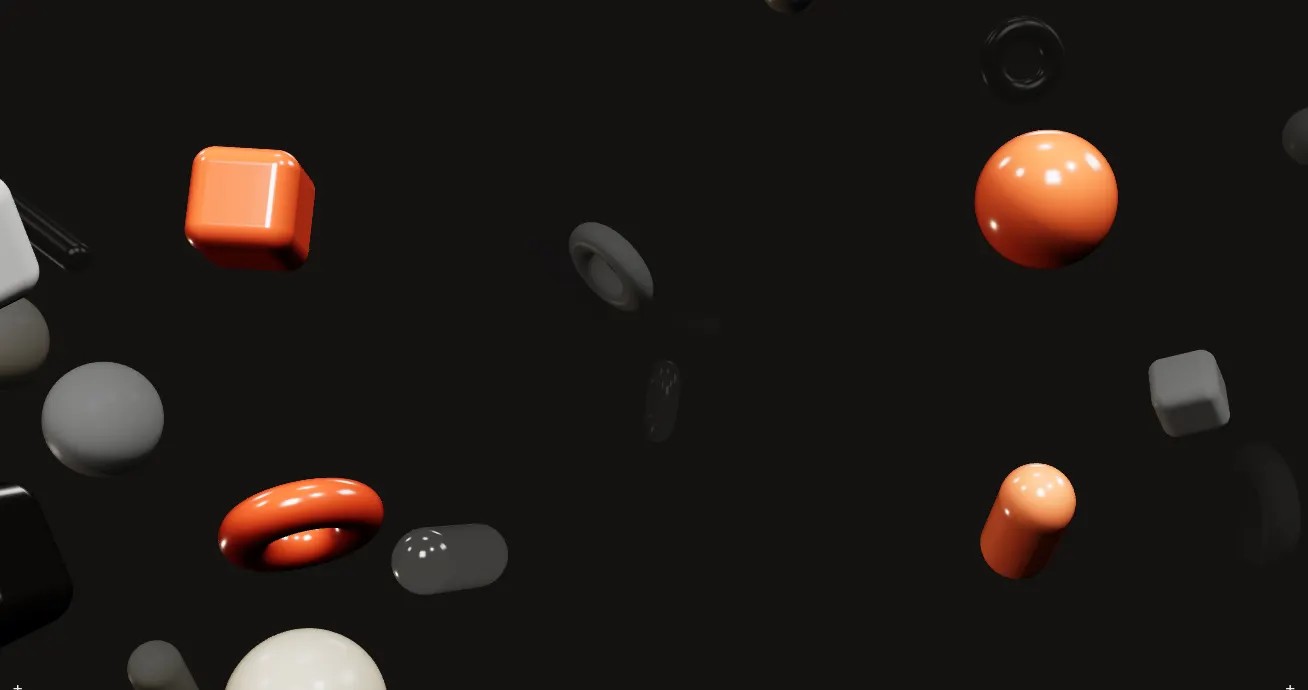
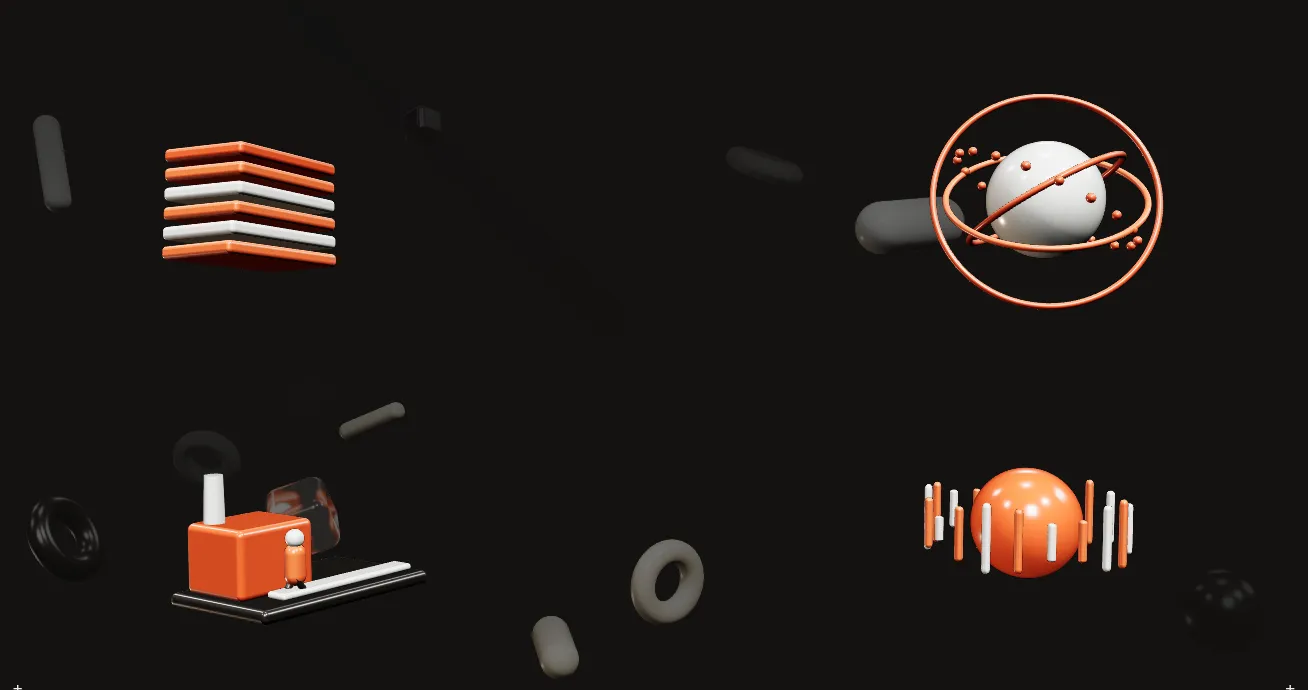
Hero: four tiny worlds, one per project
ERP is a building of stacked pages that fan out, Privacy a globe with
language rings, MES a small factory with a walking robot, Jarvis a glowing
orb with a voice waveform. Hover grows and animates a world and shows the
project; click opens the case study. Decorative shapes sit behind the
worlds; the no-3D still shows the new scene.

diff --git a/src/lusion/Experience.jsx b/src/lusion/Experience.jsx
@@ -124,8 +124,8 @@ export default class Experience extends Component {
     const group = new THREE.Group(); scene.add(group); const items = [];
     for (let i = 0; i < 40; i++) {
       const mesh = new THREE.Mesh(geos[i % geos.length], i % 6 === 0 ? glass() : mat(palette[Math.floor(Math.random() * palette.length)]));
-      const r = rnd(1, 6), th = rnd(0, 6.283), base = new THREE.Vector3(r * Math.cos(th), r * Math.sin(th) * .7 + rnd(-1, 1) * 1.4, rnd(-6, 4));
-      mesh.rotation.set(rnd(0, 6.283), rnd(0, 6.283), rnd(0, 6.283)); mesh.scale.setScalar(rnd(.7, 1.5)); group.add(mesh);
+      const r = rnd(1, 6), th = rnd(0, 6.283), base = new THREE.Vector3(r * Math.cos(th), r * Math.sin(th) * .7 + rnd(-1, 1) * 1.4, rnd(-9, -1.5));
+      mesh.rotation.set(rnd(0, 6.283), rnd(0, 6.283), rnd(0, 6.283)); mesh.scale.setScalar(rnd(.55, 1.15)); group.add(mesh);
       items.push({ mesh, base, spin: new THREE.Vector3(rnd(-.4, .4), rnd(-.4, .4), rnd(-.2, .2)), ph: rnd(0, 6.283) });
     }
     const tctx = trail.getContext('2d');
@@ -133,12 +133,43 @@ export default class Experience extends Component {
     // The four flagship projects as larger shapes. They are placed relative to the camera, so they hold
     // their places while the other shapes fly past during the push-in. Hover shows the project, click opens it.
     const F = (this.props.flagships || []).slice(0, 4);
-    const pGeo = [new RoundedBoxGeometry(1.3, 1.3, 1.3, 6, .28), new THREE.SphereGeometry(.85, 48, 48), new THREE.TorusGeometry(.7, .3, 32, 80), new THREE.CapsuleGeometry(.45, 1.15, 10, 28)];
-    const pCol = [0xe0562a, 0xf26b3a, 0xc9461f, 0xff8452];
+    // Four tiny worlds, one per project, built from primitives.
+    const O = 0xe0562a, O2 = 0xf26b3a, CREAM = 0xf0efe9, INK = 0x2a2724;
+    const pm = (c, o = {}) => new THREE.MeshPhysicalMaterial(Object.assign({ color: c, roughness: .2, clearcoat: 1, clearcoatRoughness: .08, envMapIntensity: 1.1, emissive: O, emissiveIntensity: 0, fog: false }, o));
+    const worlds = [
+      () => { // ERP: a building of stacked pages that fan out
+        const g = new THREE.Group(), pages = [];
+        for (let k = 0; k < 6; k++) { const m = new THREE.Mesh(new RoundedBoxGeometry(1.5, .14, 1.05, 4, .05), pm(k === 5 ? O : k % 2 ? CREAM : O2)); m.position.y = -.5 + k * .2; g.add(m); pages.push(m); }
+        return { g, mats: pages.map(m => m.material), update: (t, h) => pages.forEach((m, k) => { m.position.y = -.5 + k * (.2 + h * .16); m.rotation.y = Math.sin(t * .8 + k * .5) * (.08 + h * .25); }) };
+      },
+      () => { // Privacy: a globe with language rings
+        const g = new THREE.Group(), globe = new THREE.Mesh(new THREE.SphereGeometry(.62, 48, 48), pm(CREAM)); g.add(globe);
+        const rings = [0, 1, 2].map(k => { const r = new THREE.Mesh(new THREE.TorusGeometry(.9 + k * .14, .035, 12, 96), pm(k === 1 ? O2 : O)); r.rotation.set(1.1 + k * .5, k * .7, 0); g.add(r); return r; });
+        const dots = new THREE.Group(); for (let k = 0; k < 18; k++) { const d = new THREE.Mesh(new THREE.SphereGeometry(.05, 10, 10), pm(O)); const a = k / 18 * Math.PI * 2; d.position.set(Math.cos(a) * 1.04, 0, Math.sin(a) * 1.04); dots.add(d); } dots.rotation.x = .5; g.add(dots);
+        return { g, mats: [globe.material, ...rings.map(r => r.material)], update: (t, h) => { rings.forEach((r, k) => { r.rotation.z = t * (.3 + k * .15) * (1 + h * 3); }); dots.rotation.y = t * (.4 + h * 1.6); globe.rotation.y = t * .2; } };
+      },
+      () => { // MES: a small factory with a walking robot
+        const g = new THREE.Group(), base = new THREE.Mesh(new RoundedBoxGeometry(1.9, .12, 1.2, 4, .05), pm(INK)); base.position.y = -.55; g.add(base);
+        const hall = new THREE.Mesh(new RoundedBoxGeometry(.8, .6, .7, 4, .06), pm(O)); hall.position.set(-.45, -.2, -.15); g.add(hall);
+        const chimney = new THREE.Mesh(new THREE.CylinderGeometry(.08, .1, .7, 16), pm(CREAM)); chimney.position.set(-.7, .15, -.3); g.add(chimney);
+        const belt = new THREE.Mesh(new RoundedBoxGeometry(1.5, .06, .22, 3, .03), pm(CREAM)); belt.position.set(.1, -.45, .38); g.add(belt);
+        const robot = new THREE.Group(); const body = new THREE.Mesh(new THREE.CapsuleGeometry(.09, .18, 6, 14), pm(O2)); body.position.y = .2; const head = new THREE.Mesh(new THREE.SphereGeometry(.08, 16, 16), pm(CREAM)); head.position.y = .42;
+        const legs = [-1, 1].map(sd => { const l = new THREE.Mesh(new THREE.CapsuleGeometry(.03, .12, 4, 8), pm(INK)); l.position.set(sd * .05, .05, 0); robot.add(l); return l; });
+        robot.add(body, head); robot.position.set(.1, -.42, .38); g.add(robot);
+        return { g, mats: [hall.material, body.material], update: (t, h) => { const sp = 1 + h * 2.5; robot.position.x = .1 + Math.sin(t * .7 * sp) * .55; robot.rotation.y = Math.cos(t * .7 * sp) > 0 ? Math.PI / 2 : -Math.PI / 2; legs.forEach((l, k) => { l.rotation.x = Math.sin(t * 6 * sp + k * Math.PI) * .6; }); chimney.scale.y = 1 + Math.sin(t * 3) * .04 * (1 + h * 3); } };
+      },
+      () => { // Jarvis: a glowing orb with a voice waveform
+        const g = new THREE.Group(), orb = new THREE.Mesh(new THREE.SphereGeometry(.5, 48, 48), pm(O, { emissive: O, emissiveIntensity: .35 })); g.add(orb);
+        const bars = []; for (let k = 0; k < 20; k++) { const b = new THREE.Mesh(new RoundedBoxGeometry(.07, .4, .07, 2, .03), pm(k % 2 ? CREAM : O2)); const a = k / 20 * Math.PI * 2; b.position.set(Math.cos(a) * .85, 0, Math.sin(a) * .85); b.rotation.y = -a; g.add(b); bars.push(b); }
+        g.rotation.x = .35;
+        return { g, mats: [orb.material], glow: true, update: (t, h) => { bars.forEach((b, k) => { b.scale.y = .5 + Math.abs(Math.sin(t * (2 + h * 4) + k * .7)) * (1 + h * 2.2); }); orb.scale.setScalar(1 + Math.sin(t * 2.4) * .04 * (1 + h * 2)); } };
+      },
+    ];
     const projects = F.map((f, i) => {
-      const material = new THREE.MeshPhysicalMaterial({ color: pCol[i], roughness: .16, clearcoat: 1, clearcoatRoughness: .06, envMapIntensity: 1.1, emissive: 0xe0562a, emissiveIntensity: 0, fog: false });
-      const mesh = new THREE.Mesh(pGeo[i], material); mesh.userData.i = i; mesh.rotation.set(rnd(0, 6), rnd(0, 6), 0); scene.add(mesh);
-      return { mesh, material, f, hover: 0, ph: i * 1.7 };
+      const w = worlds[i % worlds.length]();
+      const hit = new THREE.Mesh(new THREE.SphereGeometry(1.15, 16, 16), new THREE.MeshBasicMaterial({ transparent: true, opacity: 0, depthWrite: false }));
+      hit.userData.i = i; w.g.add(hit); w.g.rotation.y = rnd(-.6, .6); scene.add(w.g);
+      return { mesh: w.g, hit, world: w, f, hover: 0, ph: i * 1.7 };
     });
     const slots = [[-1, .9], [1, .95], [-.92, -.95], [.95, -.9]];
     const ray = new THREE.Raycaster(), ndc = new THREE.Vector2(), pv = new THREE.Vector3(), fwd = new THREE.Vector3();
@@ -365,7 +396,7 @@ export default class Experience extends Component {
           let hov = -1;
           if (inside) {
             ndc.set(((m.tx - cr.left) / cr.width) * 2 - 1, -((m.ty - cr.top) / cr.height) * 2 + 1); ray.setFromCamera(ndc, camera);
-            const hit = ray.intersectObjects(projects.map(p => p.mesh))[0]; if (hit) hov = hit.object.userData.i;
+            const hit = ray.intersectObjects(projects.map(p => p.hit))[0]; if (hit) hov = hit.object.userData.i;
           }
           this._hoverP = hov; const show = hov >= 0 ? hov : this._linkP;
           canvas.style.cursor = hov >= 0 ? 'pointer' : '';
@@ -374,9 +405,10 @@ export default class Experience extends Component {
             const [ux, uy] = slots[i];
             pr.mesh.position.set(camera.position.x + (ux * sx + m.nx * .35 + Math.cos(t * .4 + pr.ph) * .12) * k, camera.position.y + (uy * sy - m.ny * .25 + Math.sin(t * .55 + pr.ph) * .16) * k, camera.position.z - 18 * k);
             pr.hover += ((i === show ? 1 : 0) - pr.hover) * .15;
-            pr.mesh.scale.setScalar(k * size * (1 + pr.hover * .2));
-            pr.material.emissiveIntensity = pr.hover * .22;
-            pr.mesh.rotation.x += (.18 + pr.hover * .8) * dt; pr.mesh.rotation.y += (.24 + pr.hover * 1.2) * dt;
+            pr.mesh.scale.setScalar(k * size * (i >= 2 ? 1.4 : 1.15) * (1 + pr.hover * .25));
+            pr.world.mats.forEach(mt => { mt.emissiveIntensity = (pr.world.glow && mt === pr.world.mats[0] ? .35 : 0) + pr.hover * .18; });
+            pr.mesh.rotation.y += (.22 + pr.hover * .5) * dt; pr.mesh.rotation.x = Math.sin(t * .5 + pr.ph) * .12;
+            pr.world.update(t, pr.hover);
           });
           if (label) {
             if (show >= 0) {

diff --git a/src/lusion/Markup.jsx b/src/lusion/Markup.jsx
@@ -761,7 +761,7 @@ export function PageMarkup({ v }) {
                 style={{ position: "absolute", left: "26px", right: "26px", bottom: "22px", display: "flex", justifyContent: "space-between", alignItems: "center", gap: "16px", flexWrap: "wrap" }}
               >
                 <div data-hero-hint={"1"} style={{ fontSize: "12px", letterSpacing: ".08em", textTransform: "uppercase", color: "rgba(240,239,233,.7)" }}>
-                  {"Move to explore · click an orange shape to open a project"}
+                  {"Move to explore · click a project to open it"}
                 </div>
                 <nav aria-label={"Case studies"} style={{ display: "flex", gap: "8px", flexWrap: "wrap" }}>
                   {(v.heroProjects || []).map((p) => (
